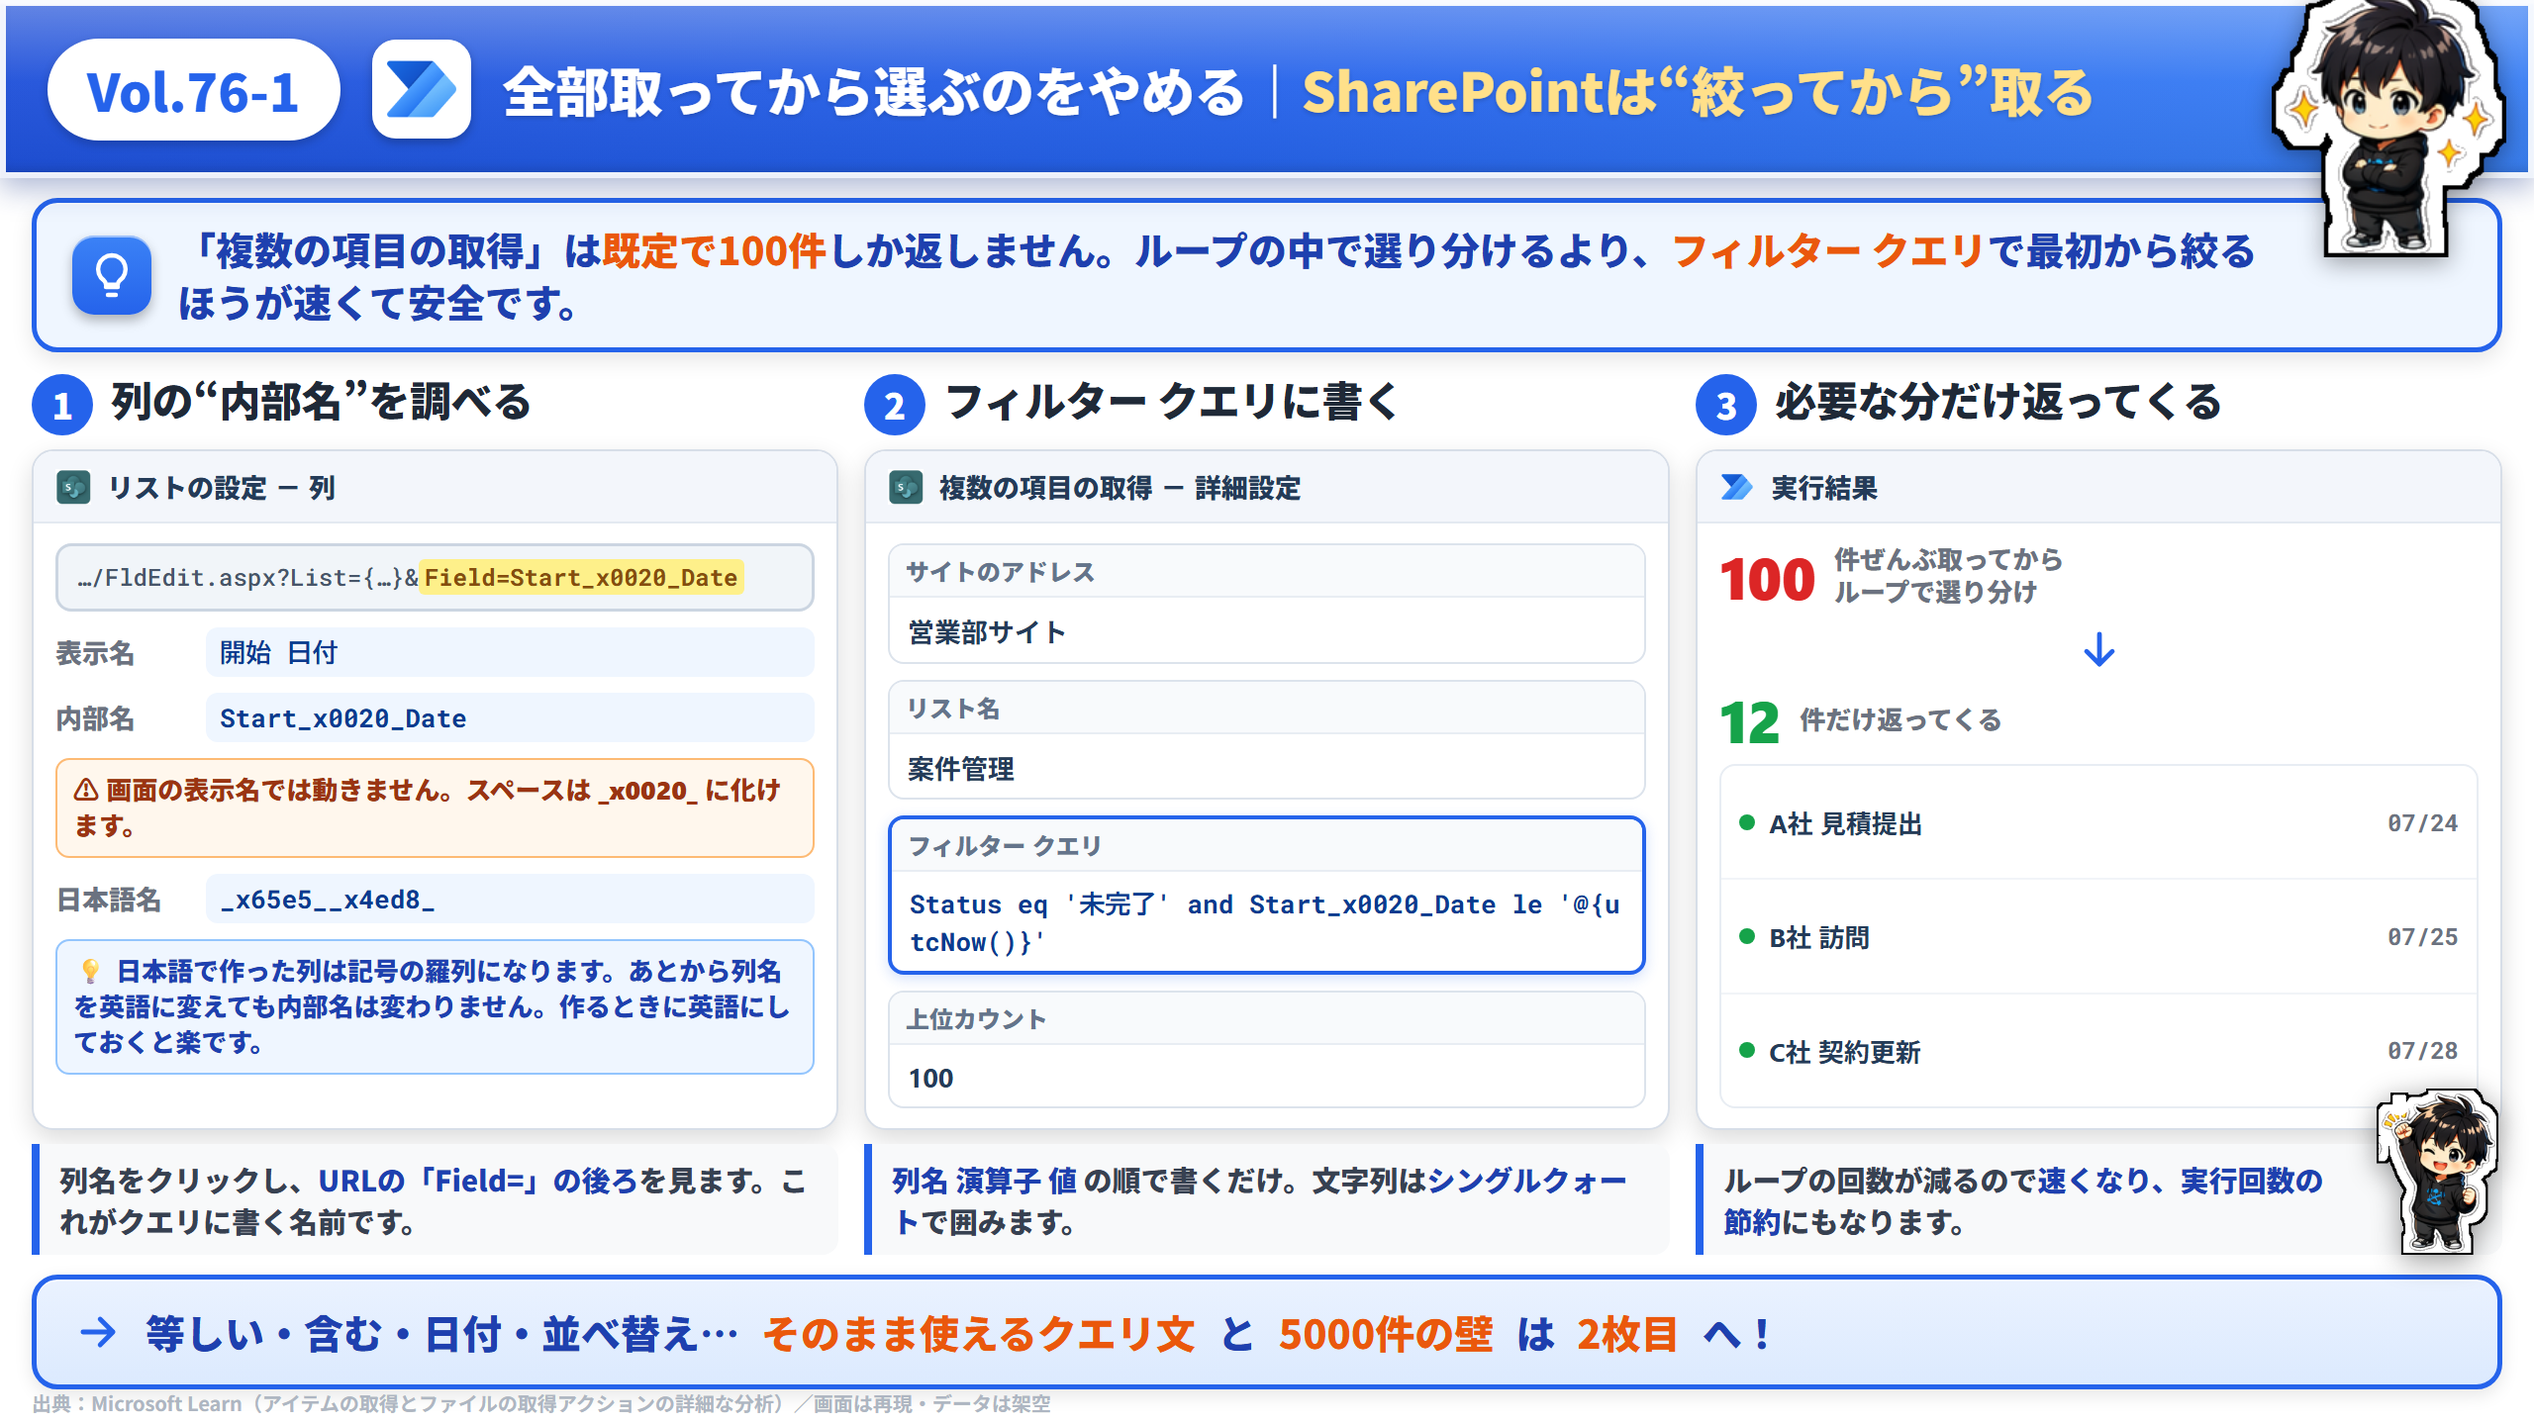
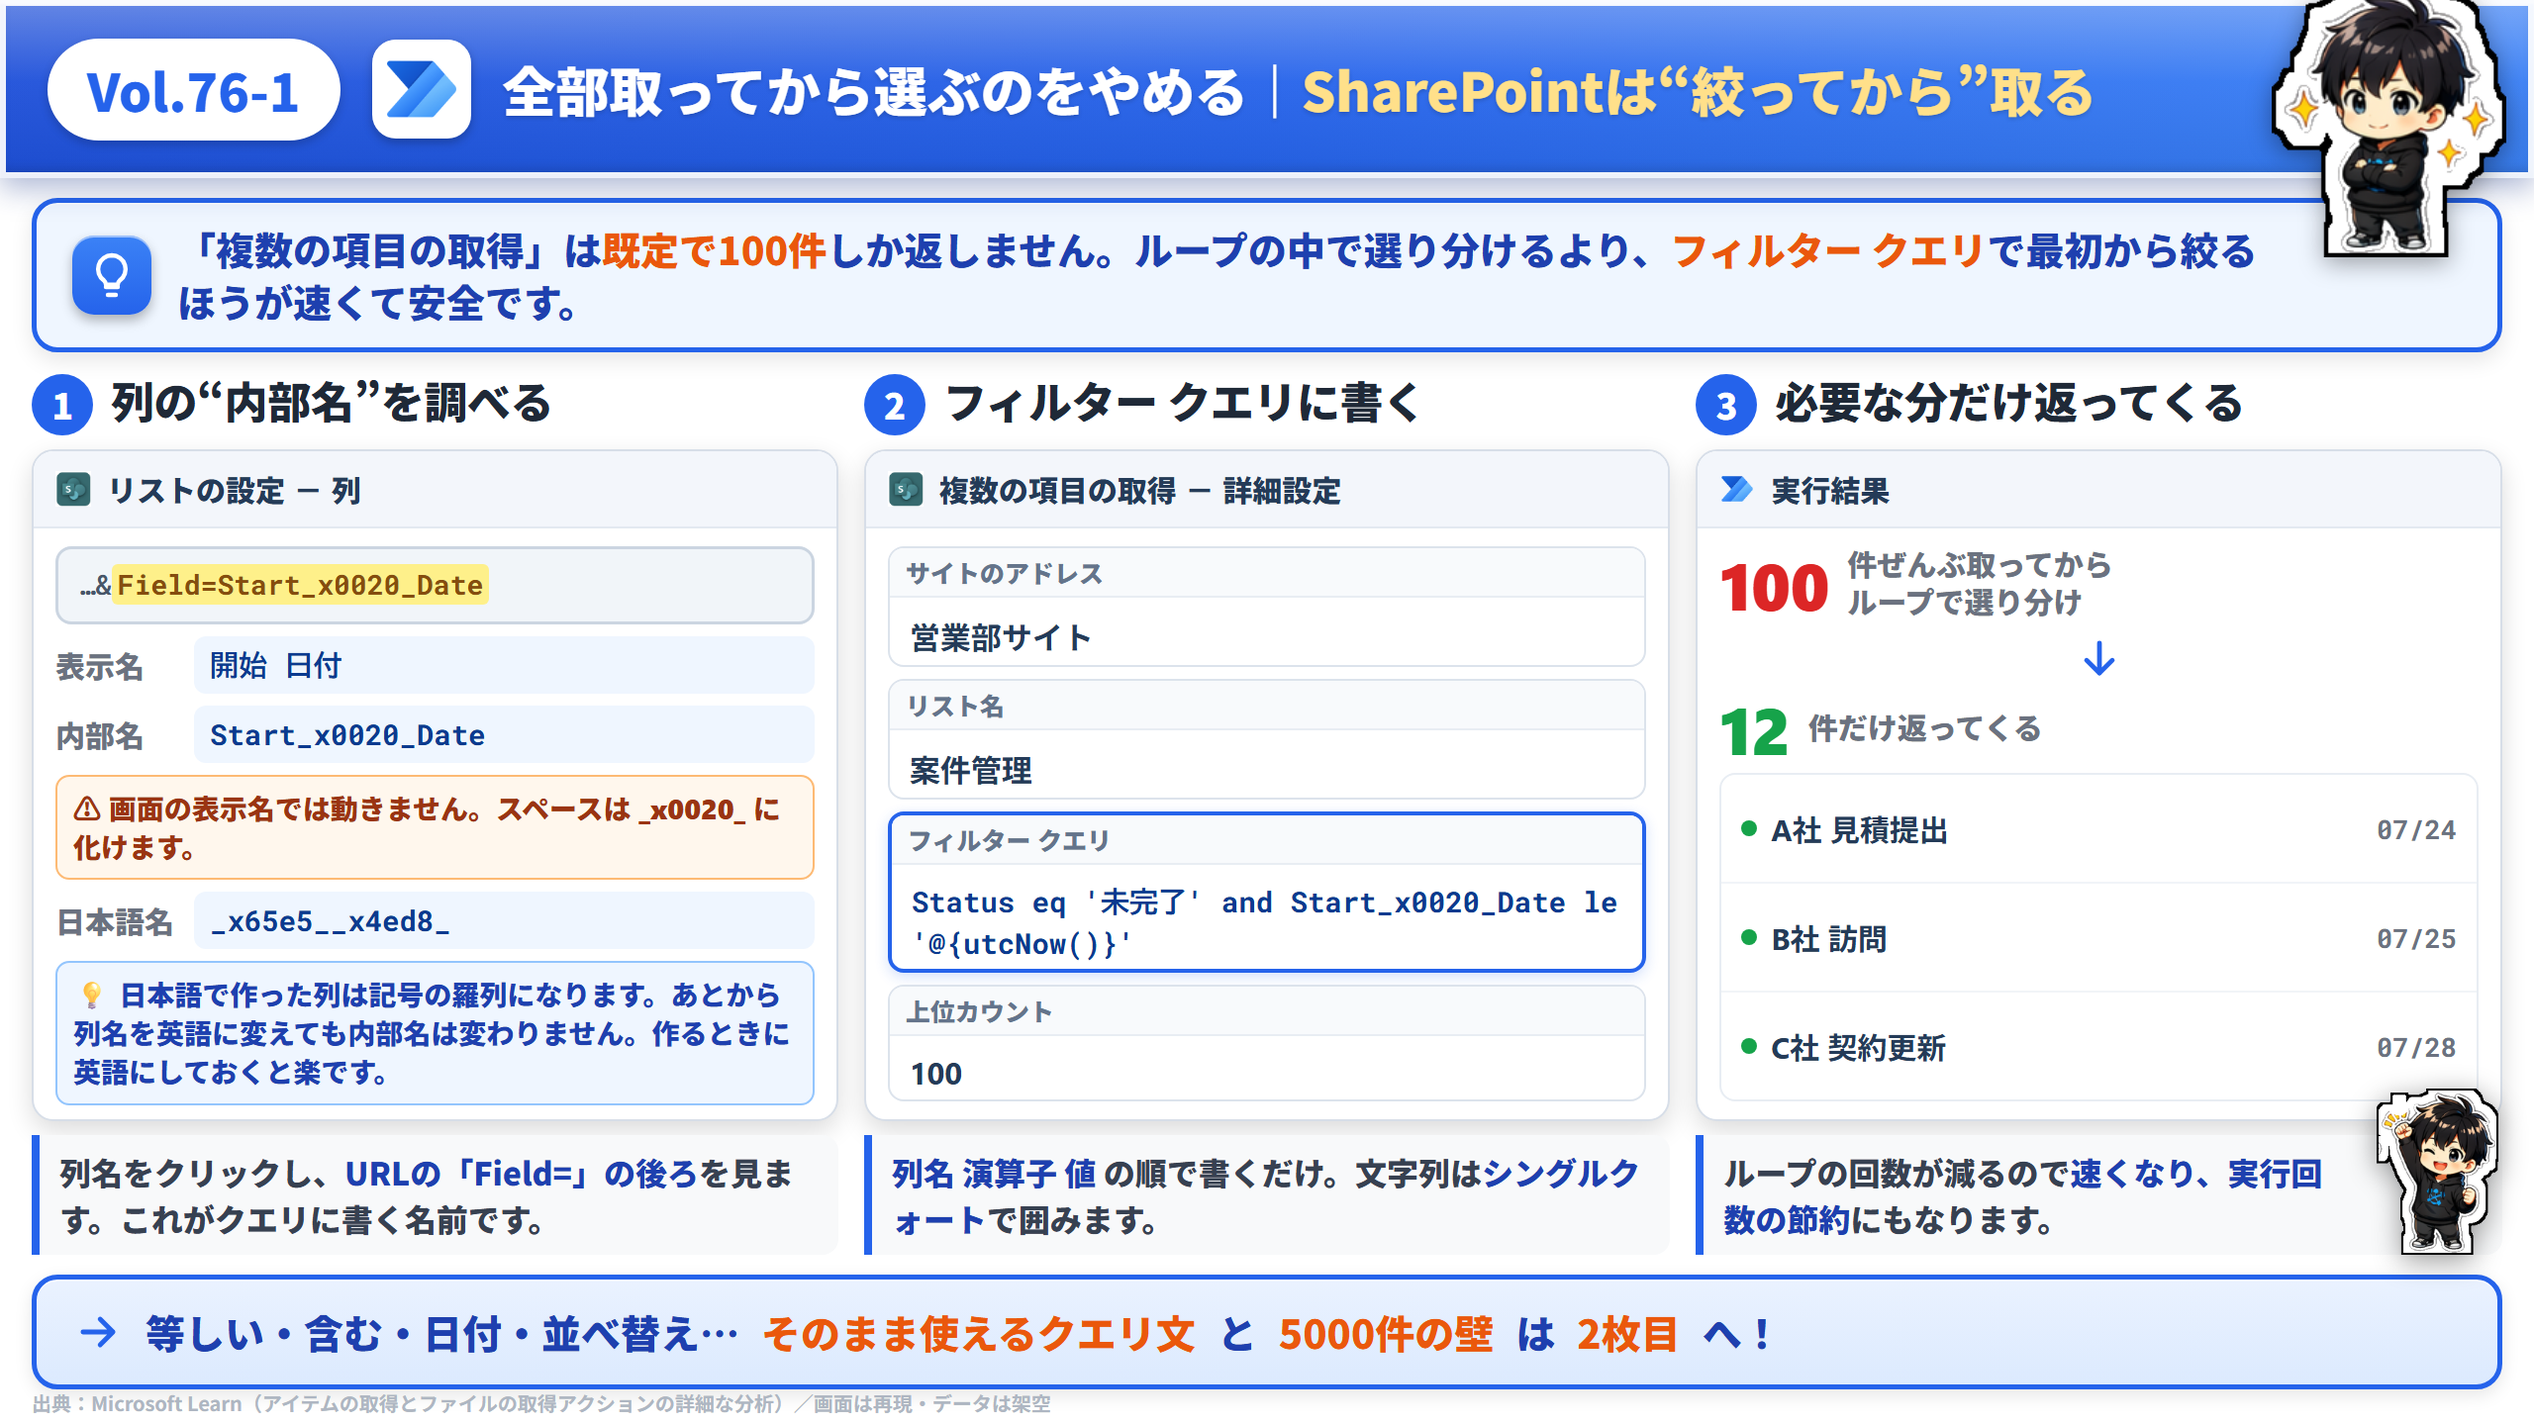
Vol.76 の文字を全体的に大きくした（スマホで読める水準へ）
はる「まだ字が小さい」を反映。モック内のコード・説明が13-14pxで小さかった。
- 1枚目＝内部名/フィルター入力/結果の文字を14-16pxへ底上げ、URLは短縮して拡大
- 2枚目＝クエリ本文14→16px、演算子/壁/注意帯も引き上げ。壁の文章は短縮して収めた
- 品質基準メモリの下限表を改訂（モック内は13px以下を作らない）

diff --git a/assets/x/html/vol-76/index.html b/assets/x/html/vol-76/index.html
@@ -33,44 +33,44 @@
 
   .cols{flex:1 1 auto;margin:11px 16px 0;display:grid;grid-template-columns:1fr 1fr 1fr;gap:13px;min-height:0;}
   .col{display:flex;flex-direction:column;min-height:0;gap:7px;}
-  .ch{font-weight:900;font-size:21px;color:var(--ink);display:flex;align-items:flex-start;gap:9px;line-height:1.2;letter-spacing:-.01em;}
+  .ch{font-weight:900;font-size:22px;color:var(--ink);display:flex;align-items:flex-start;gap:9px;line-height:1.2;letter-spacing:-.01em;}
   .ch .n{flex:0 0 auto;width:31px;height:31px;border-radius:50%;background:var(--blue);color:#fff;font-weight:900;font-size:18px;display:flex;align-items:center;justify-content:center;}
-  .cap{font-size:14.5px;font-weight:800;color:var(--gray);line-height:1.45;background:#F8F9FA;border-left:4px solid var(--blue);border-radius:0 8px 8px 0;padding:7px 10px;}
+  .cap{font-size:16px;font-weight:800;color:var(--gray);line-height:1.45;background:#F8F9FA;border-left:4px solid var(--blue);border-radius:0 8px 8px 0;padding:7px 10px;}
   .cap b{color:var(--blue-dark);}
   .col.rel .cap{padding-right:76px;}
 
   .mock{flex:1;background:#fff;border:1px solid #D7DEE8;border-radius:11px;box-shadow:0 5px 13px rgba(0,0,0,.14);overflow:hidden;font-family:'Segoe UI','Noto Sans JP',sans-serif;display:flex;flex-direction:column;min-height:0;}
   .mh{flex:0 0 auto;display:flex;align-items:center;gap:8px;padding:8px 11px;background:#F3F6FB;border-bottom:1px solid #E3E9F1;}
   .mh img{width:18px;height:18px;object-fit:contain;}
-  .mh span{font-weight:800;font-size:13.5px;color:#243B58;}
-  .mb{flex:1;padding:10px 11px;display:flex;flex-direction:column;gap:8px;min-height:0;}
+  .mh span{font-weight:800;font-size:15px;color:#243B58;}
+  .mb{flex:1;padding:9px 11px;display:flex;flex-direction:column;gap:6px;min-height:0;}
 
   /* ①URLバー */
-  .urlbar{background:#F1F5F9;border:1.5px solid #CBD5E1;border-radius:8px;padding:7px 9px;font-family:'Roboto Mono',monospace;font-size:12px;color:#475569;word-break:break-all;line-height:1.45;}
+  .urlbar{background:#F1F5F9;border:1.5px solid #CBD5E1;border-radius:8px;padding:8px 10px;font-family:'Roboto Mono',monospace;font-size:14px;color:#475569;word-break:break-all;line-height:1.45;}
   .urlbar b{background:#FEF08A;color:#854D0E;border-radius:3px;padding:1px 3px;}
-  .kv{display:flex;gap:8px;align-items:center;font-size:13.5px;font-weight:800;}
-  .kv .k{flex:0 0 68px;color:var(--weak);}
-  .kv .v{flex:1;font-family:'Roboto Mono',monospace;color:#0B3A8F;background:#EFF6FF;border-radius:6px;padding:4px 7px;font-size:13px;word-break:break-all;}
-  .warnmini{font-size:13px;font-weight:800;color:#9A3412;background:#FFF7ED;border:1px solid #FDBA74;border-radius:7px;padding:6px 8px;line-height:1.4;}
+  .kv{display:flex;gap:8px;align-items:center;font-size:15px;font-weight:800;}
+  .kv .k{flex:0 0 62px;color:var(--weak);}
+  .kv .v{flex:1;font-family:'Roboto Mono',monospace;color:#0B3A8F;background:#EFF6FF;border-radius:6px;padding:5px 8px;font-size:14.5px;word-break:break-all;}
+  .warnmini{font-size:14px;font-weight:800;color:#9A3412;background:#FFF7ED;border:1px solid #FDBA74;border-radius:7px;padding:6px 8px;line-height:1.4;}
 
   /* ②フィルター入力 */
   .fld{border:1px solid #DCE3EC;border-radius:8px;overflow:hidden;}
-  .fld .fl{font-size:12px;font-weight:800;color:#64748B;background:#F8FAFC;padding:4px 8px;border-bottom:1px solid #E8EDF3;}
-  .fld .fi{font-size:13.5px;font-weight:700;color:#243B58;padding:7px 9px;}
+  .fld .fl{font-size:12.5px;font-weight:800;color:#64748B;background:#F8FAFC;padding:3px 8px;border-bottom:1px solid #E8EDF3;}
+  .fld .fi{font-size:15.5px;font-weight:700;color:#243B58;padding:8px 10px;}
   .fld.hot{border:2px solid var(--blue);box-shadow:0 2px 7px rgba(37,99,235,.2);}
-  .fld.hot .fi{font-family:'Roboto Mono',monospace;font-size:13px;color:#0B3A8F;word-break:break-all;line-height:1.45;}
+  .fld.hot .fi{font-family:'Roboto Mono',monospace;font-size:14.5px;color:#0B3A8F;word-break:break-all;line-height:1.45;}
 
   /* ③結果 */
   .cnt{display:flex;align-items:center;gap:9px;}
-  .cnt .big{font-weight:900;font-size:29px;line-height:1;}
-  .cnt .lb{font-size:13px;font-weight:800;color:var(--weak);line-height:1.25;}
+  .cnt .big{font-weight:900;font-size:33px;line-height:1;}
+  .cnt .lb{font-size:15px;font-weight:800;color:var(--weak);line-height:1.25;}
   .cnt.ng .big{color:var(--red);} .cnt.ok .big{color:var(--green);}
   .arrowdown{align-self:center;width:26px;height:26px;color:var(--blue);}
   .rows{flex:1;display:flex;flex-direction:column;border:1px solid #E8EDF3;border-radius:8px;overflow:hidden;min-height:0;}
-  .rw{flex:1;display:flex;align-items:center;gap:7px;padding:0 9px;font-size:13px;font-weight:700;color:#243B58;border-bottom:1px solid #F1F4F8;min-height:0;}
+  .rw{flex:1;display:flex;align-items:center;gap:7px;padding:0 10px;font-size:15px;font-weight:700;color:#243B58;border-bottom:1px solid #F1F4F8;min-height:0;}
   .rw:last-child{border-bottom:none;}
   .rw .dot{flex:0 0 auto;width:8px;height:8px;border-radius:50%;background:var(--green);}
-  .rw .dt{margin-left:auto;font-family:'Roboto Mono',monospace;font-size:12px;color:var(--weak);}
+  .rw .dt{margin-left:auto;font-family:'Roboto Mono',monospace;font-size:13.5px;color:var(--weak);}
 
   .cmascot{position:absolute;right:2px;bottom:0;height:84px;z-index:30;filter:drop-shadow(0 3px 7px rgba(0,0,0,.4));}
   .col.rel{position:relative;}
@@ -107,7 +107,7 @@ document.getElementById('slide').innerHTML=`
       <div class="mock">
         <div class="mh"><img src="${A}icons/pa_sharepoint.png" alt=""><span>リストの設定 － 列</span></div>
         <div class="mb">
-          <div class="urlbar">…/FldEdit.aspx?List={…}&amp;<b>Field=Start_x0020_Date</b></div>
+          <div class="urlbar">…&amp;<b>Field=Start_x0020_Date</b></div>
           <div class="kv"><span class="k">表示名</span><span class="v">開始 日付</span></div>
           <div class="kv"><span class="k">内部名</span><span class="v">Start_x0020_Date</span></div>
           <div class="warnmini">⚠ 画面の表示名では動きません。スペースは <b>_x0020_</b> に化けます。</div>

diff --git a/assets/x/html/vol-76b/index.html b/assets/x/html/vol-76b/index.html
@@ -38,33 +38,33 @@
   .hd .b{flex:0 0 auto;width:31px;height:31px;border-radius:50%;background:var(--blue);color:#fff;font-weight:900;font-size:17px;display:flex;align-items:center;justify-content:center;}
 
   .qs{flex:1;display:grid;grid-template-columns:1fr;grid-auto-rows:1fr;gap:6px;min-height:0;}
-  .q{display:flex;align-items:center;gap:11px;background:#F8F9FA;border:1px solid var(--line);border-left:5px solid var(--blue);border-radius:9px;padding:6px 11px;min-height:0;}
-  .q .lbl{flex:0 0 176px;font-size:15px;font-weight:900;color:var(--ink);line-height:1.2;}
-  .q .val{flex:1;font-family:'Roboto Mono',monospace;font-size:14px;font-weight:700;color:#0B3A8F;line-height:1.3;word-break:break-all;}
+  .q{display:flex;align-items:center;gap:11px;background:#F8F9FA;border:1px solid var(--line);border-left:6px solid var(--blue);border-radius:9px;padding:7px 12px;min-height:0;}
+  .q .lbl{flex:0 0 168px;font-size:17px;font-weight:900;color:var(--ink);line-height:1.2;}
+  .q .val{flex:1;font-family:'Roboto Mono',monospace;font-size:16px;font-weight:700;color:#0B3A8F;line-height:1.3;word-break:break-all;}
   .q.d{border-left-color:var(--orange);} .q.d .val{color:#9A3412;}
   .q.s{border-left-color:#7C3AED;} .q.s .val{color:#5B21B6;}
   .q.o{border-left-color:var(--green);} .q.o .val{color:var(--green-dark);}
 
   .ops{background:#F8F9FA;border:1px solid var(--line);border-radius:11px;padding:10px 12px;}
-  .ops .oh{font-weight:900;font-size:15.5px;color:var(--ink);margin-bottom:7px;}
-  .opg{display:grid;grid-template-columns:1fr 1fr;gap:5px 10px;}
-  .op{display:flex;align-items:baseline;gap:7px;font-size:14px;font-weight:800;color:var(--gray);}
-  .op code{font-family:'Roboto Mono',monospace;font-size:14.5px;font-weight:700;color:var(--blue-dark);background:#EFF6FF;border-radius:5px;padding:1px 7px;flex:0 0 auto;}
+  .ops .oh{font-weight:900;font-size:17px;color:var(--ink);margin-bottom:7px;}
+  .opg{display:grid;grid-template-columns:1fr 1fr;gap:7px 10px;}
+  .op{display:flex;align-items:baseline;gap:7px;font-size:15.5px;font-weight:800;color:var(--gray);}
+  .op code{font-family:'Roboto Mono',monospace;font-size:16px;font-weight:700;color:var(--blue-dark);background:#EFF6FF;border-radius:5px;padding:1px 7px;flex:0 0 auto;}
 
   .wall{flex:1;background:linear-gradient(180deg,#FFF7ED,#FFEDD5);border:2.5px solid #FB923C;border-radius:12px;padding:11px 13px;display:flex;flex-direction:column;gap:8px;position:relative;min-height:0;}
-  .wall .wh{font-weight:900;font-size:19px;color:#9A3412;line-height:1.25;}
-  .wall .wt{font-size:14.5px;font-weight:800;color:#7C2D12;line-height:1.5;}
+  .wall .wh{font-weight:900;font-size:21px;color:#9A3412;line-height:1.25;}
+  .wall .wt{font-size:16px;font-weight:800;color:#7C2D12;line-height:1.5;}
   .wall .wt b{color:#C2410C;}
   .wall .steps{display:flex;flex-direction:column;gap:5px;}
-  .wall .stp{display:flex;align-items:center;gap:8px;font-size:14px;font-weight:800;color:#7C2D12;background:#fff;border:1px solid #FDBA74;border-radius:8px;padding:6px 9px;}
+  .wall .stp{display:flex;align-items:center;gap:8px;font-size:15.5px;font-weight:800;color:#7C2D12;background:#fff;border:1px solid #FDBA74;border-radius:8px;padding:6px 9px;}
   .wall .stp .n{flex:0 0 auto;width:21px;height:21px;border-radius:50%;background:#EA580C;color:#fff;font-size:12.5px;font-weight:900;display:flex;align-items:center;justify-content:center;}
-  .wall .stp:last-child{padding-right:72px;}
+  .wall .stp:last-child{padding-right:64px;}
   .wmascot{position:absolute;right:-6px;bottom:-6px;height:84px;z-index:30;filter:drop-shadow(0 3px 7px rgba(0,0,0,.4));}
 
   .warn{flex:0 0 auto;margin:10px 16px 18px;background:#EFF6FF;border:2px solid #93C5FD;border-radius:12px;padding:9px 16px;display:flex;align-items:center;gap:14px;}
-  .warn .wt2{flex:0 0 auto;font-weight:900;font-size:16px;color:var(--blue-dark);}
-  .warn .wl{display:flex;gap:20px;flex-wrap:wrap;font-size:14.5px;font-weight:800;color:#1E3A8A;line-height:1.35;}
-  .warn code{font-family:'Roboto Mono',monospace;background:#fff;border:1px solid #BFDBFE;border-radius:5px;padding:1px 6px;}
+  .warn .wt2{flex:0 0 auto;font-weight:900;font-size:17px;color:var(--blue-dark);}
+  .warn .wl{display:flex;gap:18px;flex-wrap:wrap;font-size:16px;font-weight:800;color:#1E3A8A;line-height:1.35;}
+  .warn code{font-family:'Roboto Mono',monospace;font-size:15px;background:#fff;border:1px solid #BFDBFE;border-radius:5px;padding:1px 6px;}
   .src{position:absolute;left:16px;bottom:4px;font-size:10px;color:#AEB6C2;font-weight:700;z-index:3;}
 </style>
 </head>
@@ -122,10 +122,10 @@ document.getElementById('slide').innerHTML=`
       </div>
       <div class="wall">
         <div class="wh">⚠ 5000件の壁</div>
-        <div class="wt">上位カウントの既定は<b>100件</b>、増やせるのは<b>5000件</b>まで。さらに、5000件を超えるリストでは<b>最初の5000件に該当が無いと0件で返ってくる</b>ことがあります。</div>
+        <div class="wt">既定<b>100件</b>／最大<b>5000件</b>。5000件超のリストは<b>最初の5000件に該当が無いと0件</b>で返ることも。</div>
         <div class="steps">
-          <div class="stp"><span class="n">1</span>アクションの設定で<b>ページ分割をオン</b></div>
-          <div class="stp"><span class="n">2</span>絞り込む列に<b>インデックス</b>を付ける</div>
+          <div class="stp"><span class="n">1</span><span><b>ページ分割</b>をオンにする</span></div>
+          <div class="stp"><span class="n">2</span><span>絞り込む列に<b>インデックス</b></span></div>
         </div>
         <img class="wmascot" src="${A}chara/chara_guts.png" alt="">
       </div>
@@ -136,7 +136,6 @@ document.getElementById('slide').innerHTML=`
     <span class="wt2">💡 覚えておくと早い</span>
     <span class="wl">
       <span>列名のスペースは <code>_x0020_</code></span>
-      <span>参照列は <code>Country/Title eq '日本'</code></span>
       <span>並べ替えは <code>列名 asc / desc</code></span>
     </span>
   </div>
